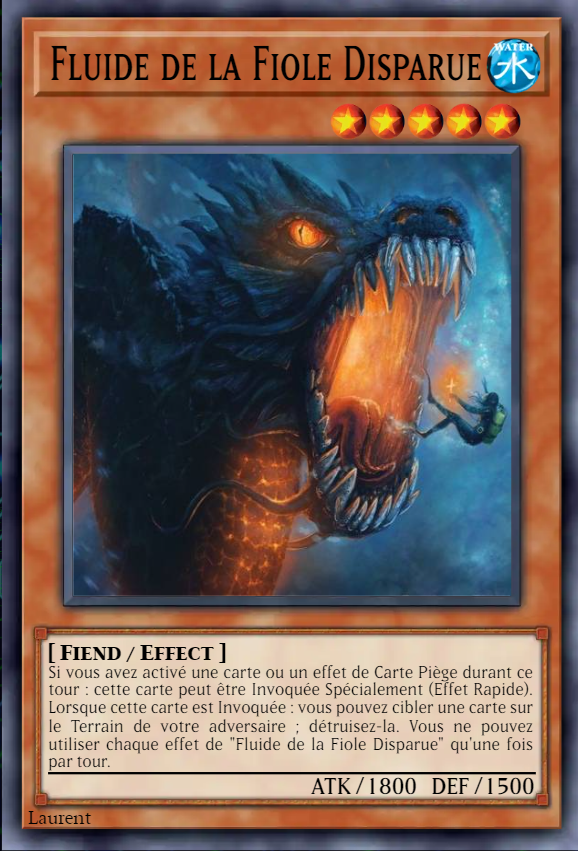
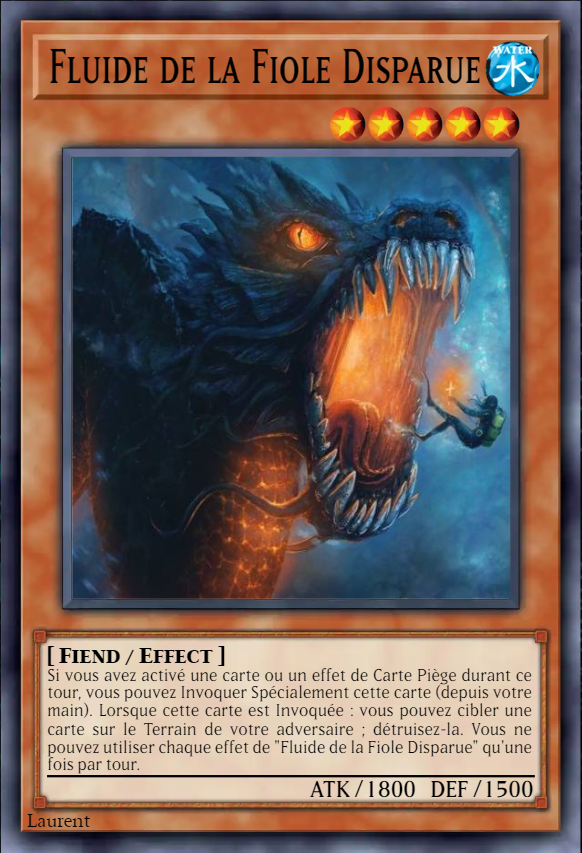
x

Changed region(s): [[0.0, 0.0, 1.0, 1.0], [0.3737, 0.3055, 0.4983, 0.3666], [0.0, 0.9777, 0.0311, 1.0]]

diff --git a/README.md b/README.md
@@ -10,3 +10,4 @@ Cartes fonctionnelles :
 1 :
 	- Soupçon (023)
 	- Bouclier (004) - protection des synchro?
+	- Fumée (013)
